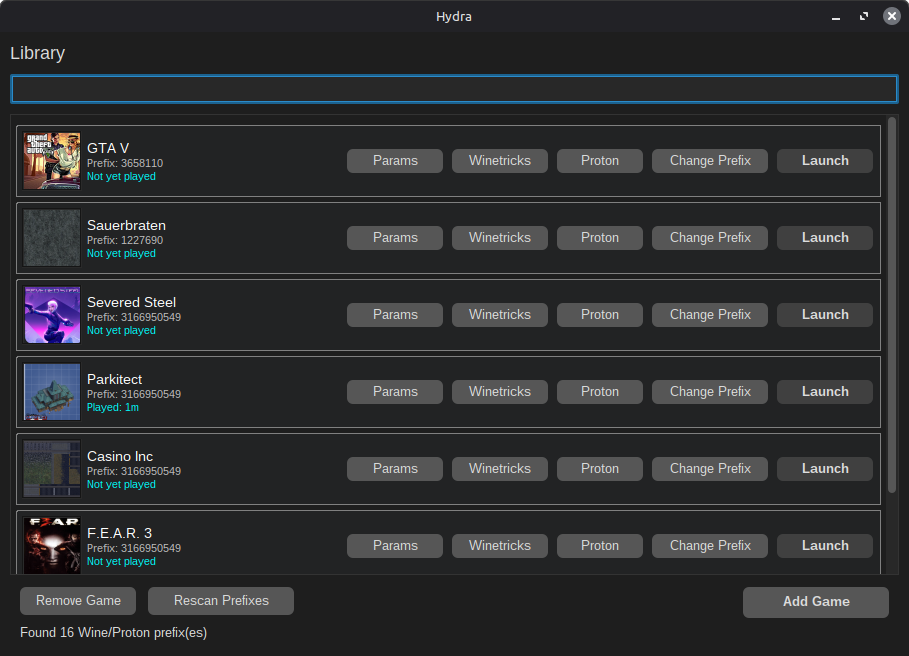
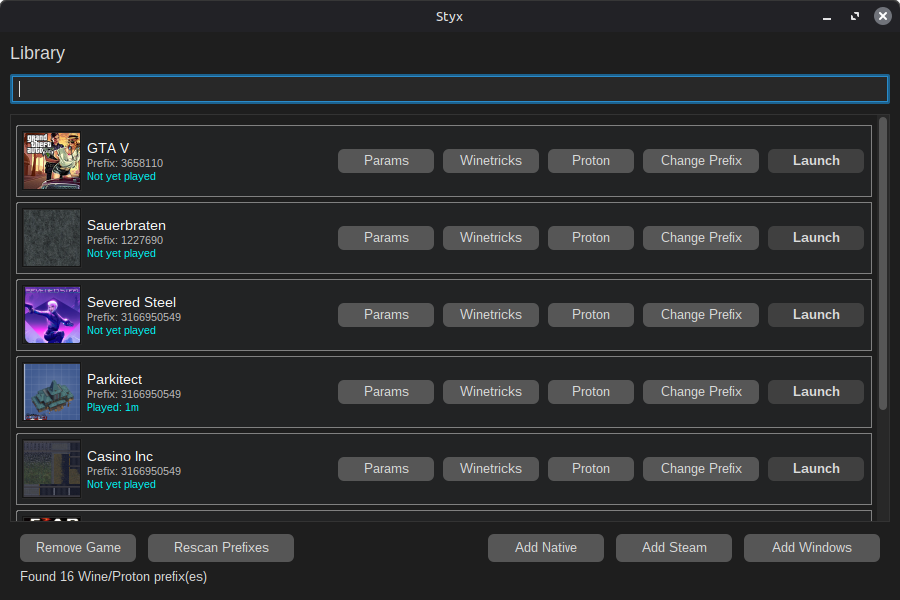
rename

diff --git a/src/main/kotlin/com/styx/Main.kt b/src/main/kotlin/com/styx/Main.kt
@@ -1,4 +1,4 @@
-package com.hydra
+package com.styx
 
 import java.awt.*
 import java.awt.image.BufferedImage
@@ -1789,7 +1789,7 @@ class GameItemWidgetWithImage(
 
     private fun copyImageToConfigDir(sourceFile: File): String? {
         try {
-            val configDir = Paths.get(System.getProperty("user.home"), ".config", "hydra").toFile()
+            val configDir = Paths.get(System.getProperty("user.home"), ".config", "Styx").toFile()
             configDir.mkdirs()
 
             val artDir = File(configDir, "art")
@@ -1831,10 +1831,10 @@ fun formatTimePlayed(minutes: Long): String {
     }
 }
 
-class GameLauncher : JFrame("Hydra") {
+class GameLauncher : JFrame("Styx") {
     private val games = mutableListOf<Game>()
     private var availablePrefixes = listOf<PrefixInfo>()
-    private val configFile = Paths.get(System.getProperty("user.home"), ".config", "hydra", "games.json")
+    private val configFile = Paths.get(System.getProperty("user.home"), ".config", "styx", "games.json")
     private val gameProcesses = mutableMapOf<String, Process>()
     private val outputWindows = mutableMapOf<String, GameOutputWindow>()
     private val gamesContainer = JPanel()
@@ -2155,7 +2155,7 @@ class GameLauncher : JFrame("Hydra") {
 
     private fun copyImageToConfigDir(game: Game, sourceFile: File): String? {
         try {
-            val configDir = Paths.get(System.getProperty("user.home"), ".config", "hydra").toFile()
+            val configDir = Paths.get(System.getProperty("user.home"), ".config", "styx").toFile()
             configDir.mkdirs()
 
             val artDir = File(configDir, "art")

diff --git a/src/main/kotlin/com/styx/PrefixInfo.kt b/src/main/kotlin/com/styx/PrefixInfo.kt
@@ -1,4 +1,4 @@
-package com.hydra
+package com.styx
 
 data class PrefixInfo(
     val name: String,

diff --git a/src/main/kotlin/com/styx/Game.kt b/src/main/kotlin/com/styx/Game.kt
@@ -1,4 +1,4 @@
-package com.hydra
+package com.styx
 
 data class Game(
     var name: String,

diff --git a/src/main/kotlin/com/styx/GameType.kt b/src/main/kotlin/com/styx/GameType.kt
@@ -1,4 +1,4 @@
-package com.hydra
+package com.styx
 
 enum class GameType {
     WINDOWS,

diff --git a/src/test/kotlin/com/styx/HelloTest.kt b/src/test/kotlin/com/styx/HelloTest.kt
@@ -1,0 +1,5 @@
+package com.styx
+
+class HelloTest {
+
+}

diff --git a/README.md b/README.md
@@ -1,4 +1,4 @@
-# Hydra
+# Styx
 
 Game launcher for playing Windows games on Linux, intended as an alternative to Lutris.
 
